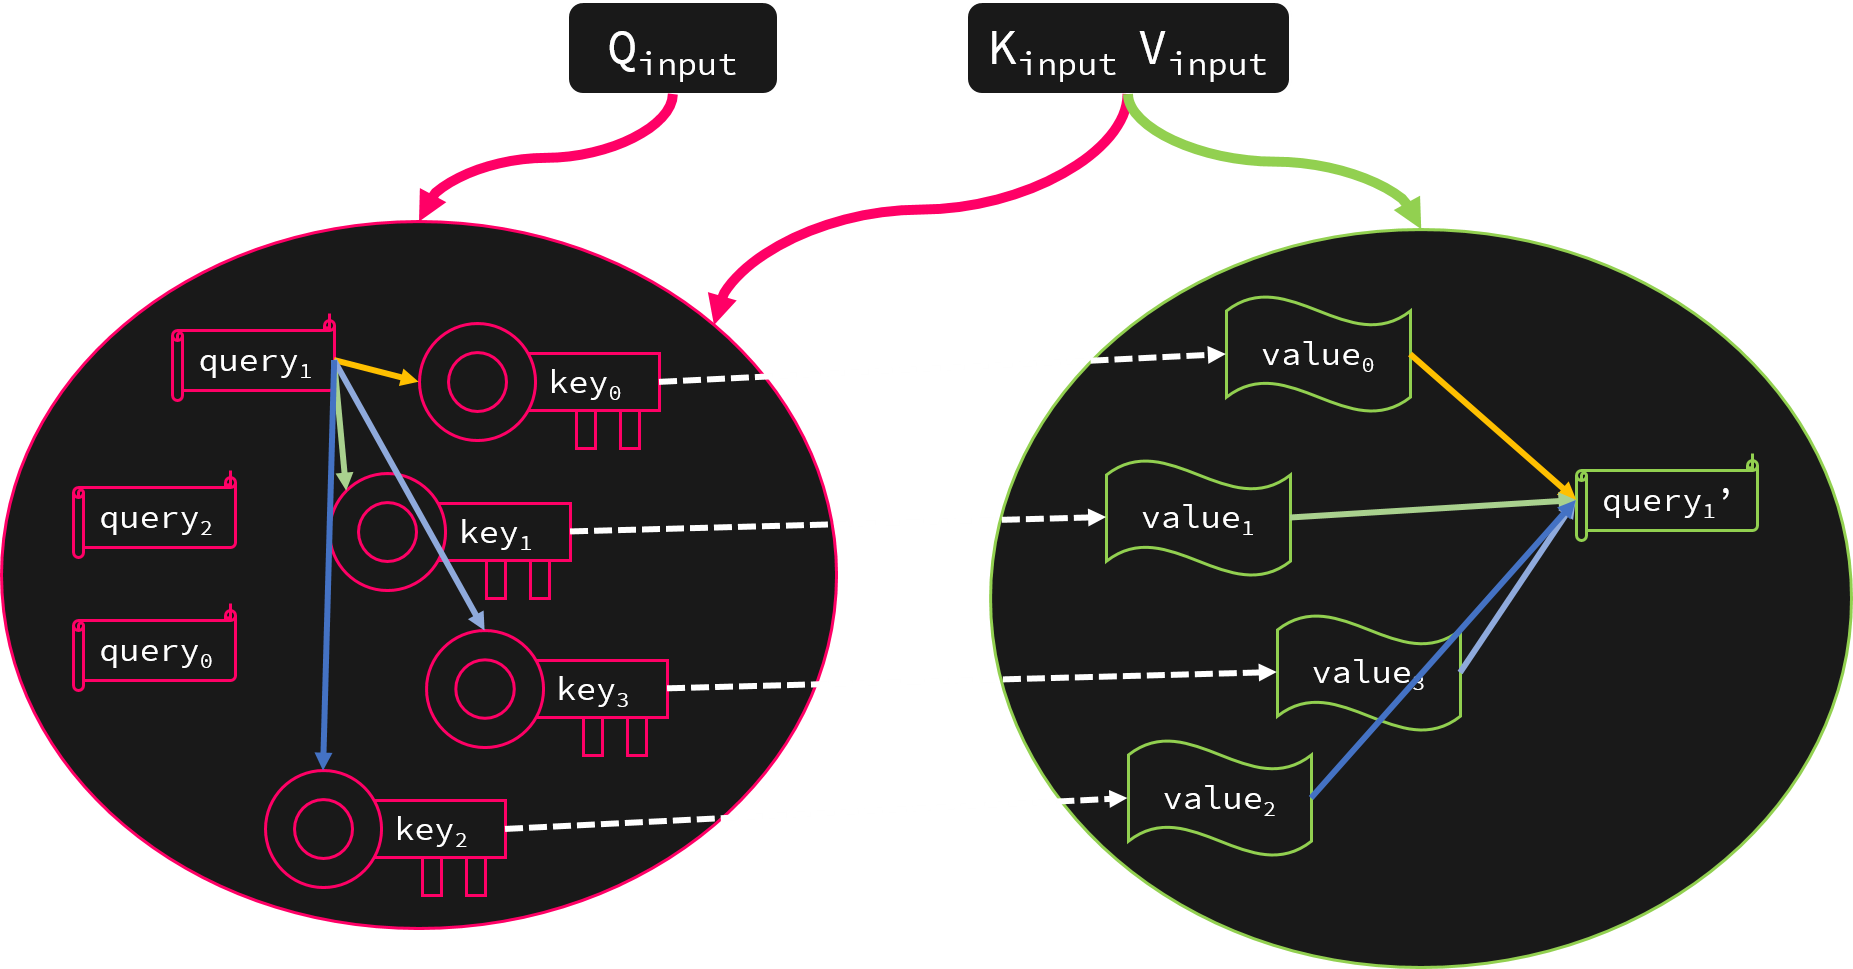
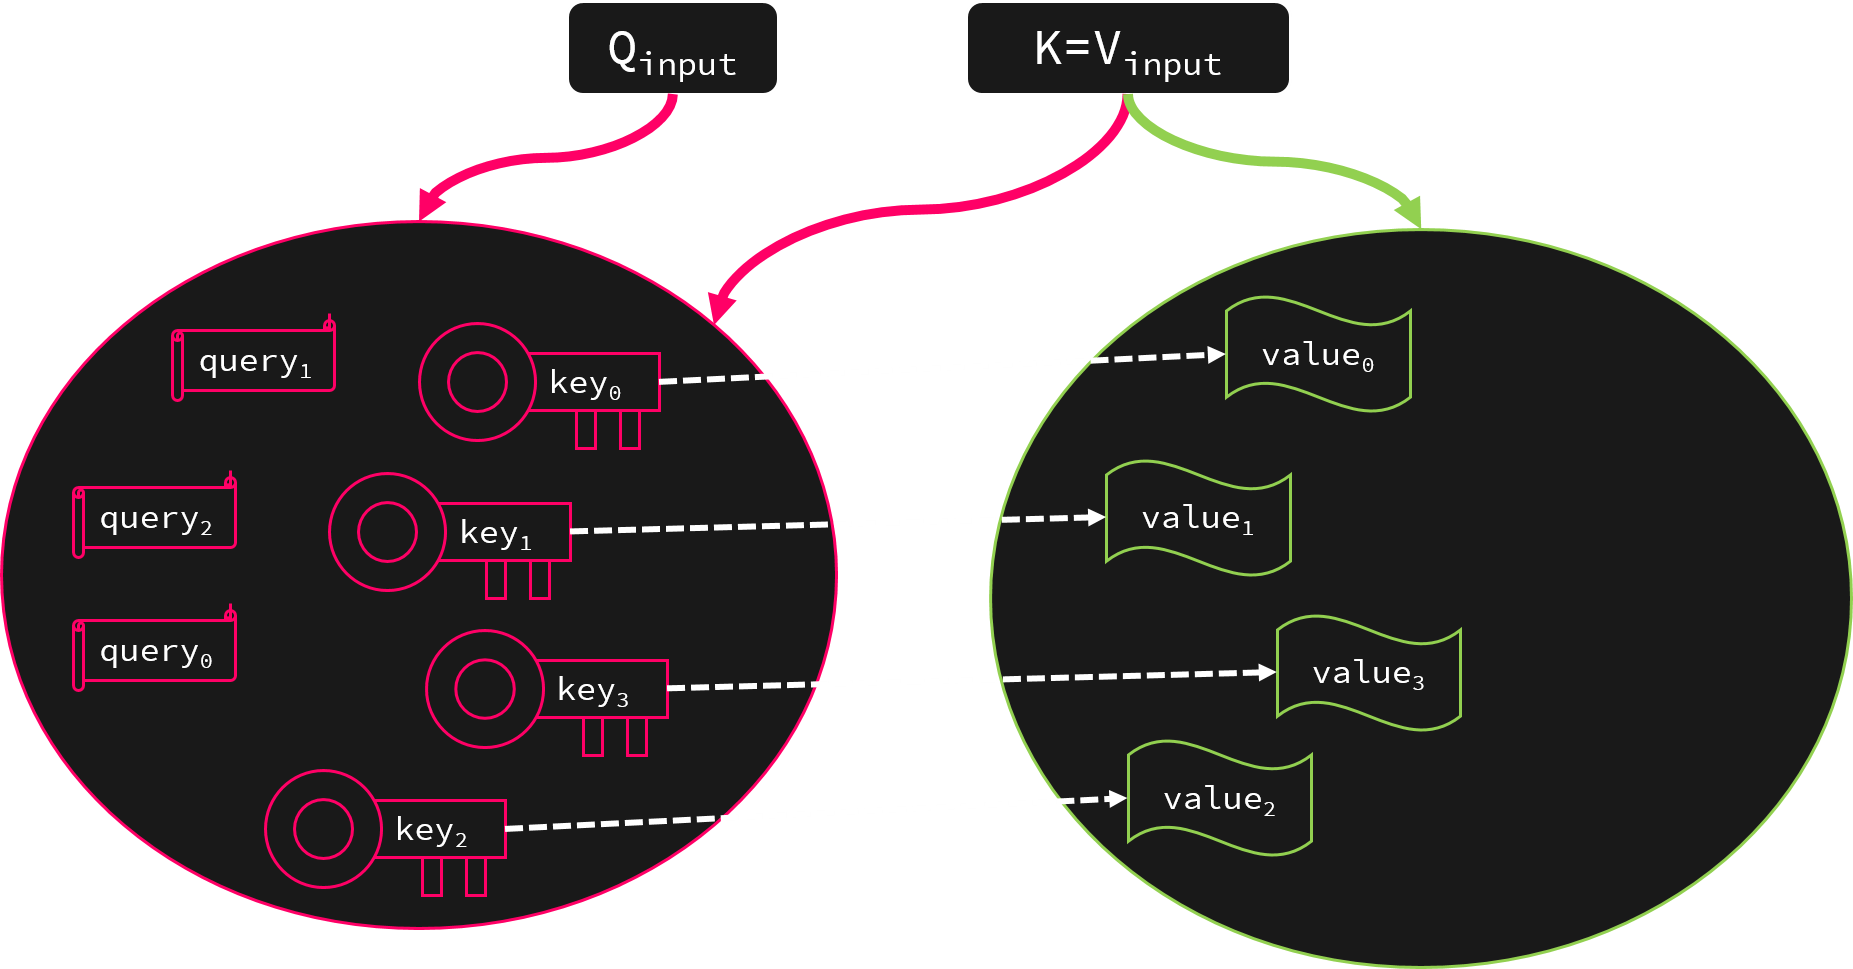
update

diff --git a/Attention-is-all-you-need/index.html b/Attention-is-all-you-need/index.html
@@ -822,41 +822,6 @@
 					</p>
 				</section>
 				<section>
-					<p>
-						讓我們從向量空間的觀點來理解前面到底做了什麼
-					</p>
-				</section>
-				<section>
-					<p class="text-left pl-32">
-						首先，\(Q_{input}\) 與 \(K_{input}=V_{input}\)<br />
-						分別來自於兩個不同的向量空間
-					</p>
-					<p class="fragment fade-up text-left pl-32">
-						我們希望能找出一種映射方式，使得 \(Q_{input}\) 能映射到 \(K_{input}=V_{input}\) 所處的向量空間
-					</p>
-				</section>
-				<section>
-					<p class="text-left pl-10">
-						\(K_{input}=V_{input}\) 執行兩種線性轉換後變成<br />
-						<span class="text-pink-500">Keys</span> & <span class="text-green-400">Values</span>，分別處在 <span
-							class="text-pink-500">QK Space</span> 與 <span class="text-green-400">V
-							Space</span>
-					</p>
-					<p class="fragment fade-up text-left pl-10">
-						而 \(Q_{input}\) 執行線性轉換後則變成位在 <span class="text-pink-500">QK Space</span> 的 <span
-							class="text-pink-500">Querys</span>
-					</p>
-				</section>
-				<section>
-					<img src="./img/QKV-vector-space_0.png" />
-				</section>
-				<section>
-					<img src="./img/QKV-vector-space_1.png" />
-				</section>
-				<section>
-					<img src="./img/QKV-vector-space_2.png" />
-				</section>
-				<section>
 					<p class="text-left pl-10">
 						為了滿足計算條件，\(Q,K,V\) 的 Shape 要求如下
 					</p>
@@ -891,6 +856,67 @@
 						\(\definecolor{pink500}{RGB}{237,100,166}\) \(\definecolor{indigo400}{RGB}{127, 156, 245}\)
 						\(W^O\in \mathbb{R}^{(h\times {\color{pink500}d_{v}})\times {\color{indigo400}d_{embedding}}}\)
 					</p>
+				</section>
+				<section>
+					<p class="text-red-600 text-6xl">
+						前方高能
+					</p>
+					<p class="fragment fade-up text-red-600 text-6xl">
+						前方高能
+					</p>
+					<p class="fragment fade-up text-red-600 text-6xl">
+						前方高能
+					</p>
+				</section>
+				<section>
+					<p>
+						讓我們從向量空間的觀點來理解前面到底做了什麼
+					</p>
+				</section>
+				<section>
+					<p class="text-left pl-32">
+						首先，\(Q_{input}\) 與 \(K_{input}=V_{input}\)<br />
+						分別來自於兩個不同的向量空間
+					</p>
+					<p class="fragment fade-up text-left pl-32">
+						我們希望能找出一種映射方式，使得 \(Q_{input}\) 能映射到 \(K_{input}=V_{input}\) 所處的向量空間
+					</p>
+				</section>
+				<section>
+					<p class="text-left pl-10">
+						\(K_{input}=V_{input}\) 執行兩種線性轉換後變成<br />
+						<span class="text-pink-500">Keys</span> & <span class="text-green-400">Values</span>，分別處在 <span
+							class="text-pink-500">QK Space</span> 與 <span class="text-green-400">V
+							Space</span>
+					</p>
+					<p class="fragment fade-up text-left pl-10">
+						而 \(Q_{input}\) 執行線性轉換後則變成位在 <span class="text-pink-500">QK Space</span> 的 <span
+							class="text-pink-500">Querys</span>
+					</p>
+				</section>
+				<section>
+					<img src="./img/QKV/0.png" />
+				</section>
+				<section>
+					<img src="./img/QKV/1.png" />
+				</section>
+				<section>
+					<img src="./img/QKV/2.png" />
+				</section>
+				<section>
+					<img src="./img/QKV/3.png" />
+				</section>
+				<section>
+					<img src="./img/QKV/4.png" />
+				</section>
+				<section>
+					<img src="./img/QKV/5.png" />
+				</section>
+				<section>
+					<img src="./img/QKV/6.png" />
+				</section>
+				<section>
+					<img src="./img/QKV/7.png" />
 				</section>
 			</section>
 
